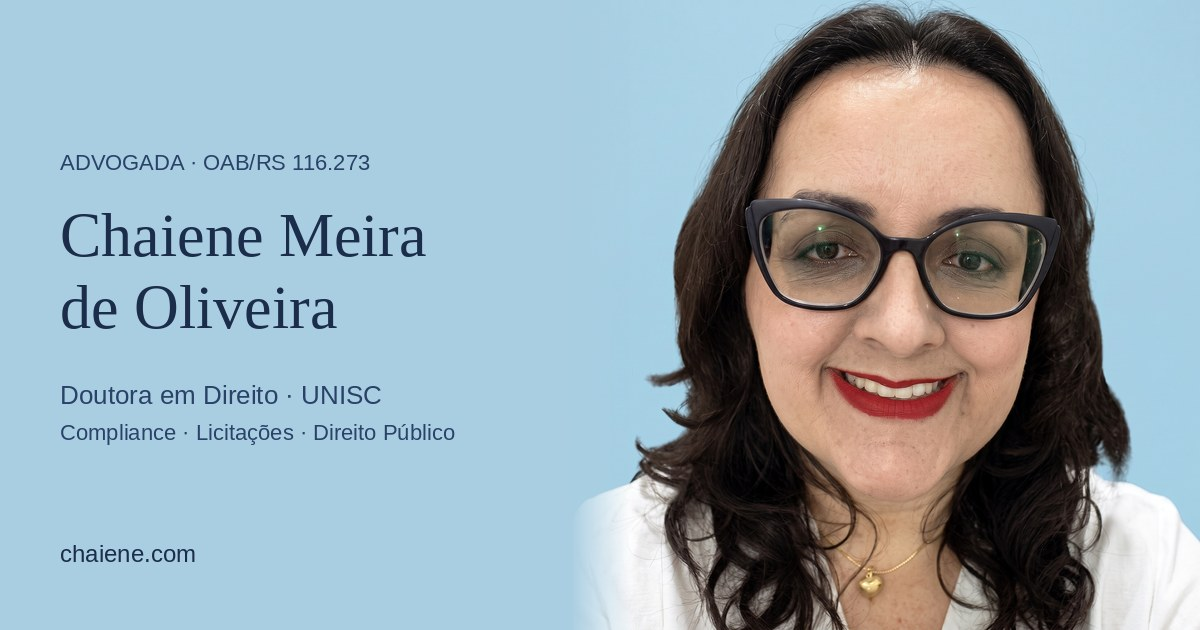
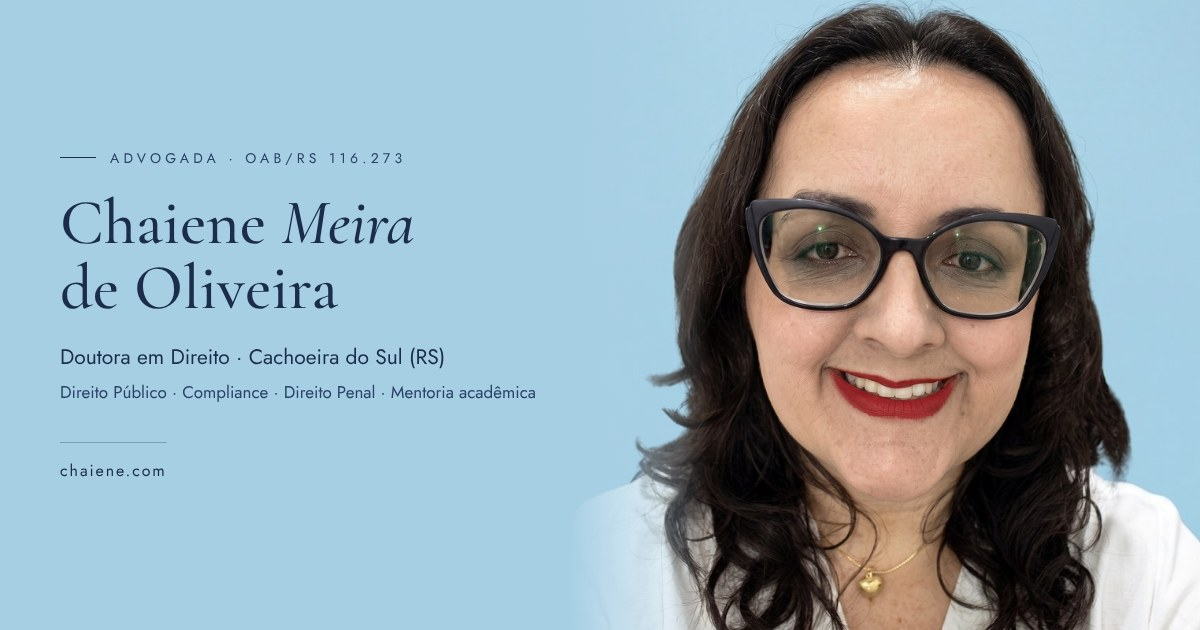
Remove licitações do site, dos dados estruturados e da imagem de compartilhamento
Claude-Session: https://claude.ai/code/session_01Ns3ecqrNMK1WW3WDgFRufM

diff --git a/index.html b/index.html
@@ -4,7 +4,7 @@
 <meta charset="utf-8">
 <meta name="viewport" content="width=device-width, initial-scale=1">
 <title>Chaiene Meira de Oliveira | Advogada em Cachoeira do Sul (RS)</title>
-<meta name="description" content="Chaiene Meira de Oliveira, advogada em Cachoeira do Sul (RS), OAB/RS 116.273 e Doutora em Direito pela UNISC. Compliance, licitações, Direito Administrativo e Penal. Mentoria acadêmica.">
+<meta name="description" content="Chaiene Meira de Oliveira, advogada em Cachoeira do Sul (RS), OAB/RS 116.273 e Doutora em Direito pela UNISC. Compliance, Direito Administrativo e Penal. Mentoria acadêmica.">
 <link rel="canonical" href="https://chaiene.com/">
 <meta name="author" content="Chaiene Meira de Oliveira">
 <meta name="robots" content="index, follow">
@@ -15,14 +15,14 @@
 <meta property="og:locale" content="pt_BR">
 <meta property="og:site_name" content="Chaiene Meira de Oliveira">
 <meta property="og:title" content="Chaiene Meira de Oliveira | Advogada em Cachoeira do Sul (RS)">
-<meta property="og:description" content="Chaiene Meira de Oliveira, advogada em Cachoeira do Sul (RS), OAB/RS 116.273 e Doutora em Direito pela UNISC. Compliance, licitações, Direito Administrativo e Penal. Mentoria acadêmica.">
+<meta property="og:description" content="Chaiene Meira de Oliveira, advogada em Cachoeira do Sul (RS), OAB/RS 116.273 e Doutora em Direito pela UNISC. Compliance, Direito Administrativo e Penal. Mentoria acadêmica.">
 <meta property="og:url" content="https://chaiene.com/">
 <meta property="og:image" content="https://chaiene.com/og-image.jpg">
 <meta property="og:image:width" content="1200">
 <meta property="og:image:height" content="630">
 <meta property="og:image:alt" content="Chaiene Meira de Oliveira, advogada e Doutora em Direito">
 <meta name="twitter:card" content="summary_large_image">
-<script type="application/ld+json">{"@context": "https://schema.org", "@graph": [{"@type": "Person", "@id": "https://chaiene.com/#chaiene", "name": "Chaiene Meira de Oliveira", "url": "https://chaiene.com/", "image": "https://chaiene.com/chaiene.jpg", "jobTitle": "Advogada", "description": "Advogada (OAB/RS 116.273) e Doutora em Direito pela UNISC.", "email": "mailto:chaienemdo@gmail.com", "alumniOf": {"@type": "CollegeOrUniversity", "name": "Universidade de Santa Cruz do Sul (UNISC)"}, "hasCredential": [{"@type": "EducationalOccupationalCredential", "credentialCategory": "degree", "name": "Doutorado em Direito"}, {"@type": "EducationalOccupationalCredential", "credentialCategory": "degree", "name": "Mestrado em Direito"}], "knowsAbout": ["Compliance", "Direito Administrativo", "Licitações e contratos administrativos", "Lei Anticorrupção", "Controle da Administração Pública", "Direito Penal", "Mentoria acadêmica"], "knowsLanguage": ["pt-BR", "en", "es"], "sameAs": ["http://lattes.cnpq.br/9865143495790215", "https://br.linkedin.com/in/chaiene-meira-de-oliveira-b3057413a", "https://www.instagram.com/chaienemdo/", "https://orcid.org/0000-0001-5439-3442"], "alternateName": ["Chaiene", "Dra. Chaiene", "Chaiene Meira", "Chaiene M. de Oliveira"], "address": {"@type": "PostalAddress", "addressLocality": "Cachoeira do Sul", "addressRegion": "RS", "addressCountry": "BR"}}, {"@type": "LegalService", "@id": "https://chaiene.com/#advocacia", "name": "Chaiene Meira de Oliveira · Advocacia", "url": "https://chaiene.com/", "image": "https://chaiene.com/og-image.jpg", "founder": {"@id": "https://chaiene.com/#chaiene"}, "areaServed": [{"@type": "City", "name": "Cachoeira do Sul"}, {"@type": "State", "name": "Rio Grande do Sul"}], "email": "chaienemdo@gmail.com", "knowsAbout": ["Compliance e integridade", "Licitações e contratos administrativos", "Direito Administrativo", "Direito Penal"], "description": "Advocacia em Direito Público em Cachoeira do Sul (RS): compliance, licitações e contratos administrativos, Direito Administrativo e Penal.", "address": {"@type": "PostalAddress", "addressLocality": "Cachoeira do Sul", "addressRegion": "RS", "addressCountry": "BR"}, "sameAs": ["https://www.instagram.com/chaienemdo/"]}, {"@type": "WebSite", "@id": "https://chaiene.com/#site", "url": "https://chaiene.com/", "name": "Chaiene Meira de Oliveira", "inLanguage": "pt-BR"}, {"@type": "Service", "@id": "https://chaiene.com/mentorias#mentoria", "name": "Mentoria acadêmica", "serviceType": "Mentoria acadêmica para estudantes de Direito", "url": "https://chaiene.com/mentorias", "provider": {"@id": "https://chaiene.com/#chaiene"}, "areaServed": {"@type": "Country", "name": "Brasil"}}]}</script>
+<script type="application/ld+json">{"@context": "https://schema.org", "@graph": [{"@type": "Person", "@id": "https://chaiene.com/#chaiene", "name": "Chaiene Meira de Oliveira", "url": "https://chaiene.com/", "image": "https://chaiene.com/chaiene.jpg", "jobTitle": "Advogada", "description": "Advogada (OAB/RS 116.273) e Doutora em Direito pela UNISC.", "email": "mailto:chaienemdo@gmail.com", "alumniOf": {"@type": "CollegeOrUniversity", "name": "Universidade de Santa Cruz do Sul (UNISC)"}, "hasCredential": [{"@type": "EducationalOccupationalCredential", "credentialCategory": "degree", "name": "Doutorado em Direito"}, {"@type": "EducationalOccupationalCredential", "credentialCategory": "degree", "name": "Mestrado em Direito"}], "knowsAbout": ["Compliance", "Direito Administrativo", "Lei Anticorrupção", "Controle da Administração Pública", "Direito Penal", "Mentoria acadêmica"], "knowsLanguage": ["pt-BR", "en", "es"], "sameAs": ["http://lattes.cnpq.br/9865143495790215", "https://br.linkedin.com/in/chaiene-meira-de-oliveira-b3057413a", "https://www.instagram.com/chaienemdo/", "https://orcid.org/0000-0001-5439-3442"], "alternateName": ["Chaiene", "Dra. Chaiene", "Chaiene Meira", "Chaiene M. de Oliveira"], "address": {"@type": "PostalAddress", "addressLocality": "Cachoeira do Sul", "addressRegion": "RS", "addressCountry": "BR"}}, {"@type": "LegalService", "@id": "https://chaiene.com/#advocacia", "name": "Chaiene Meira de Oliveira · Advocacia", "url": "https://chaiene.com/", "image": "https://chaiene.com/og-image.jpg", "founder": {"@id": "https://chaiene.com/#chaiene"}, "areaServed": [{"@type": "City", "name": "Cachoeira do Sul"}, {"@type": "State", "name": "Rio Grande do Sul"}], "email": "chaienemdo@gmail.com", "knowsAbout": ["Compliance e integridade", "Direito Administrativo", "Direito Penal"], "description": "Advocacia em Direito Público em Cachoeira do Sul (RS): compliance, Direito Administrativo e Penal.", "address": {"@type": "PostalAddress", "addressLocality": "Cachoeira do Sul", "addressRegion": "RS", "addressCountry": "BR"}, "sameAs": ["https://www.instagram.com/chaienemdo/"]}, {"@type": "WebSite", "@id": "https://chaiene.com/#site", "url": "https://chaiene.com/", "name": "Chaiene Meira de Oliveira", "inLanguage": "pt-BR"}, {"@type": "Service", "@id": "https://chaiene.com/mentorias#mentoria", "name": "Mentoria acadêmica", "serviceType": "Mentoria acadêmica para estudantes de Direito", "url": "https://chaiene.com/mentorias", "provider": {"@id": "https://chaiene.com/#chaiene"}, "areaServed": {"@type": "Country", "name": "Brasil"}}]}</script>
 <link rel="preconnect" href="https://fonts.googleapis.com">
 <link rel="preconnect" href="https://fonts.gstatic.com" crossorigin>
 <link href="https://fonts.googleapis.com/css2?family=Cormorant+Garamond:ital,wght@0,400;0,500;0,600;1,400&family=Jost:wght@300;400;500&display=swap" rel="stylesheet">
@@ -48,7 +48,7 @@
     <div>
       <div class="eyebrow">Advogada em Cachoeira do Sul · OAB/RS 116.273</div>
       <h1>Chaiene <em>Meira</em><br>de Oliveira</h1>
-      <p class="lead">Advocacia em Direito Público em Cachoeira do Sul (RS), com foco em compliance, licitações e contratos administrativos. Atendimento presencial em local combinado ou online. Doutora em Direito pela UNISC.</p>
+      <p class="lead">Advocacia em Direito Público em Cachoeira do Sul (RS), com foco em compliance e Direito Administrativo. Atendimento presencial em local combinado ou online. Doutora em Direito pela UNISC.</p>
       <div class="cta">
         <a class="btn solid" href="#contato">Agendar atendimento</a>
         <a class="btn ghost" href="/mentorias">Mentorias</a>
@@ -83,16 +83,11 @@
       </div>
       <div class="card">
         <div class="num">02</div>
-        <h3>Licitações e contratos</h3>
-        <p>Assessoria em contratações públicas sob a Nova Lei de Licitações (Lei 14.133/2021): editais, contratos administrativos e controle preventivo de irregularidades.</p>
-      </div>
-      <div class="card">
-        <div class="num">03</div>
         <h3>Direito Administrativo</h3>
         <p>Atuação perante a Administração Pública e os Tribunais de Contas, processos administrativos de responsabilização e defesa de interesses junto ao poder público.</p>
       </div>
       <div class="card">
-        <div class="num">04</div>
+        <div class="num">03</div>
         <h3>Direito Penal</h3>
         <p>Atuação em direito penal e processual penal, com ênfase em criminalidade empresarial, acordos de leniência e colaboração premiada.</p>
       </div>

diff --git a/blog/index.html b/blog/index.html
@@ -4,7 +4,7 @@
 <meta charset="utf-8">
 <meta name="viewport" content="width=device-width, initial-scale=1">
 <title>Blog | Chaiene Meira de Oliveira</title>
-<meta name="description" content="Blog da Dra. Chaiene Meira de Oliveira: Direito Público, compliance, licitações e vida acadêmica no Direito, com resumos dos artigos científicos dela.">
+<meta name="description" content="Blog da Dra. Chaiene Meira de Oliveira: Direito Público, compliance e vida acadêmica no Direito, com resumos dos artigos científicos dela.">
 <link rel="canonical" href="https://chaiene.com/blog/">
 <meta name="author" content="Chaiene Meira de Oliveira">
 <meta name="robots" content="index, follow">
@@ -15,7 +15,7 @@
 <meta property="og:locale" content="pt_BR">
 <meta property="og:site_name" content="Chaiene Meira de Oliveira">
 <meta property="og:title" content="Blog | Chaiene Meira de Oliveira">
-<meta property="og:description" content="Blog da Dra. Chaiene Meira de Oliveira: Direito Público, compliance, licitações e vida acadêmica no Direito, com resumos dos artigos científicos dela.">
+<meta property="og:description" content="Blog da Dra. Chaiene Meira de Oliveira: Direito Público, compliance e vida acadêmica no Direito, com resumos dos artigos científicos dela.">
 <meta property="og:url" content="https://chaiene.com/blog/">
 <meta property="og:image" content="https://chaiene.com/og-image.jpg">
 <meta property="og:image:width" content="1200">
@@ -46,7 +46,7 @@
   <div class="wrap">
     <div class="eyebrow">Blog</div>
     <h1>Direito e <em>pesquisa</em></h1>
-    <p>Textos sobre Direito Público, compliance, licitações e a vida acadêmica no Direito, da graduação ao doutorado.</p>
+    <p>Textos sobre Direito Público, compliance e a vida acadêmica no Direito, da graduação ao doutorado.</p>
   </div>
 </header>
 

diff --git a/sobre.html b/sobre.html
@@ -161,7 +161,7 @@
       <div class="chips">
         <span>Português · nativo</span><span>Inglês · fluente</span><span>Espanhol · B2</span>
       </div>
-      <p style="margin-top:28px;color:var(--muted)">Áreas: Direito Público · Direito Administrativo · Compliance · Licitações e contratos · Controle da Administração Pública · Direito Penal</p>
+      <p style="margin-top:28px;color:var(--muted)">Áreas: Direito Público · Direito Administrativo · Compliance · Controle da Administração Pública · Direito Penal</p>
     </div>
   </div>
 </section>
